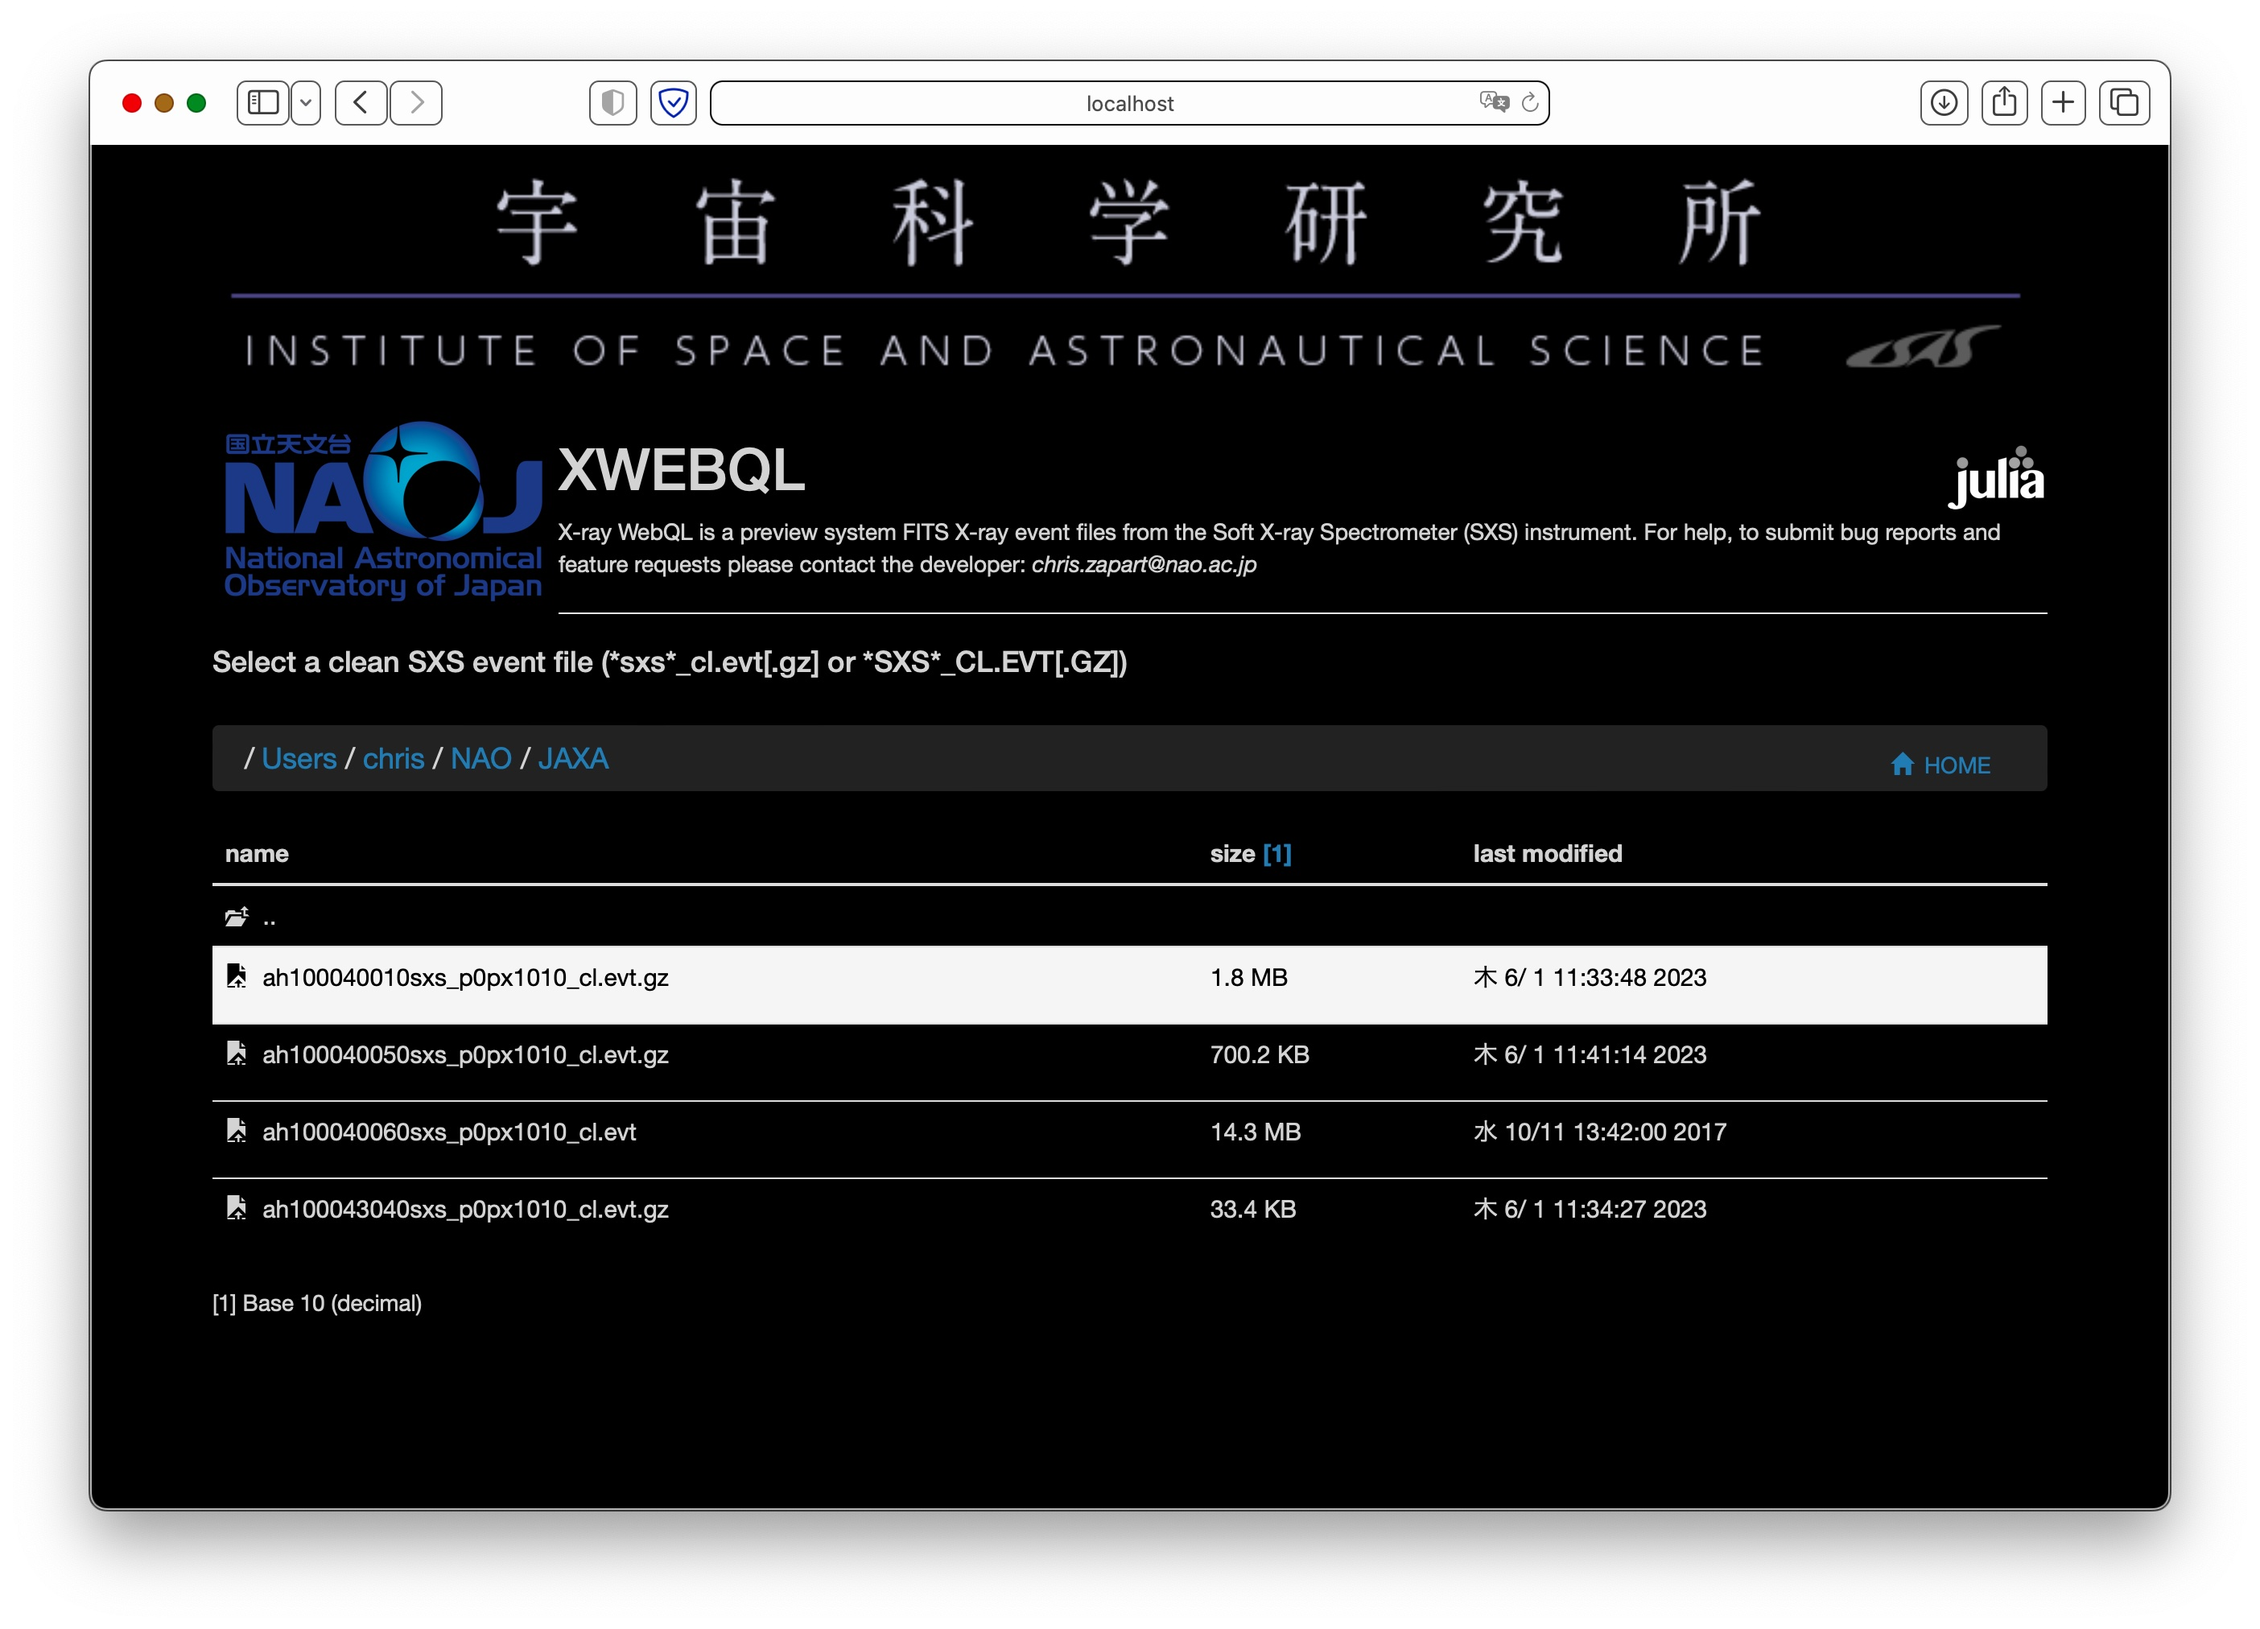
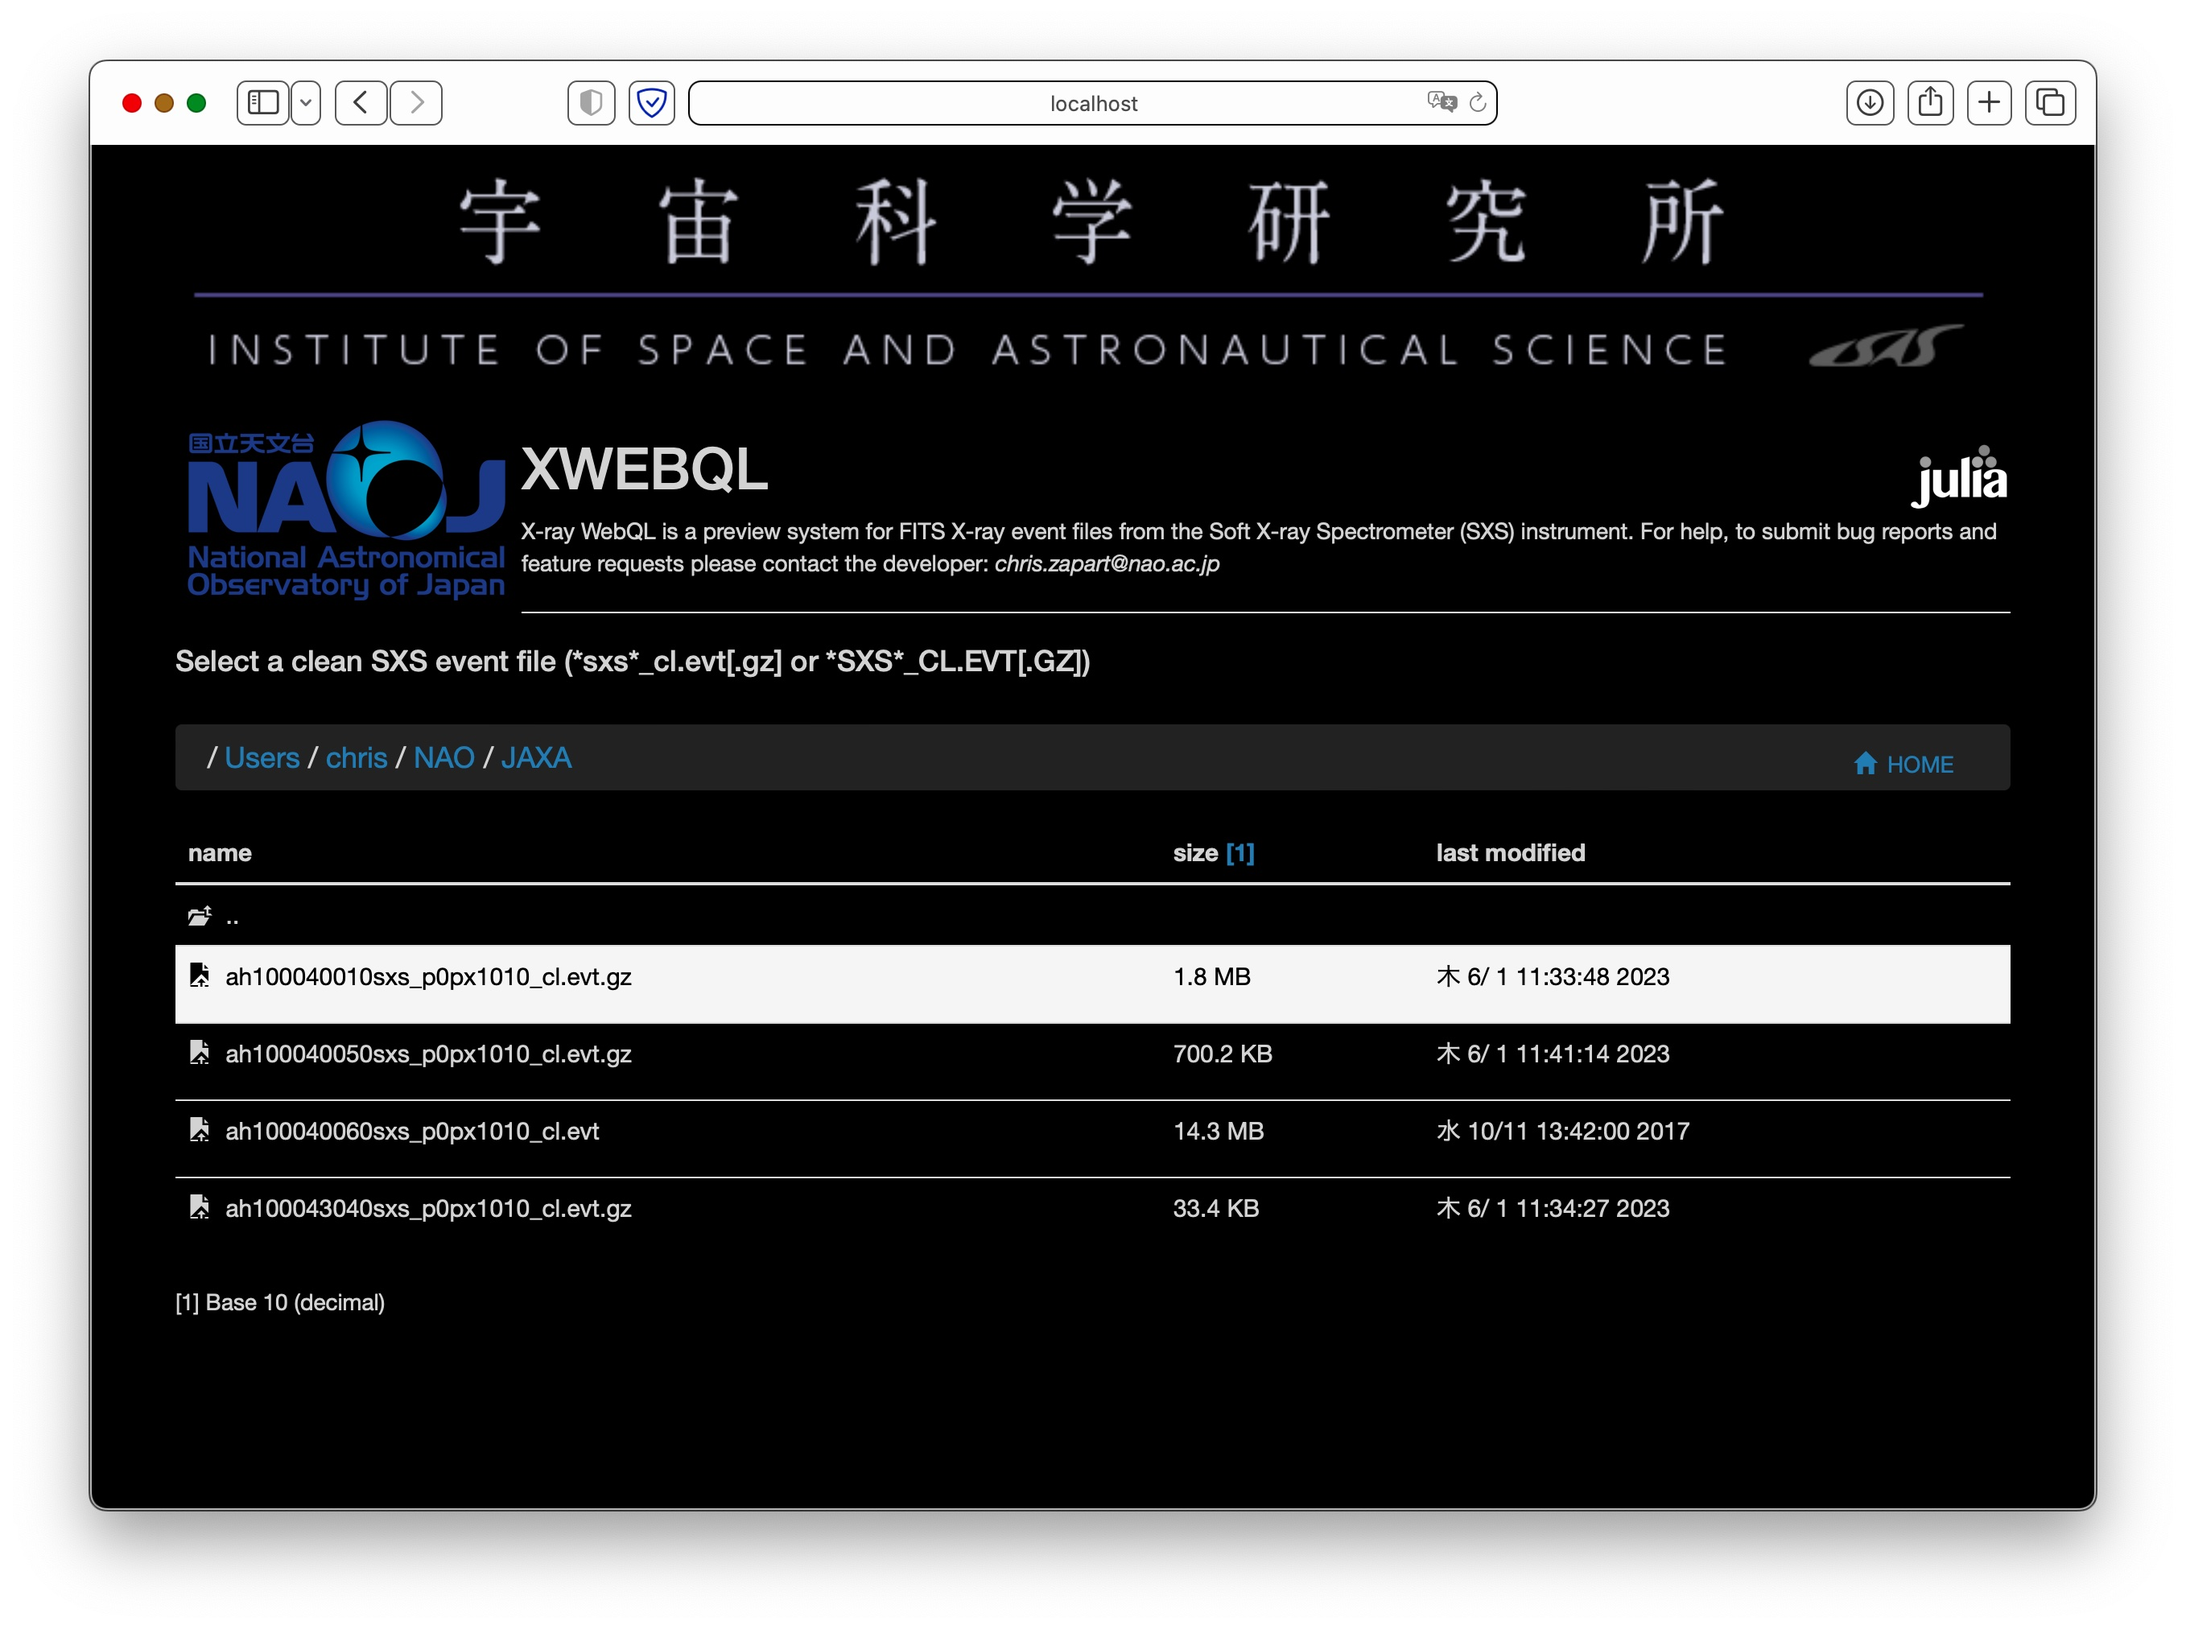
modified:   htdocs/index.html

diff --git a/htdocs/index.html b/htdocs/index.html
@@ -40,7 +40,8 @@
             <img id="logo" src="julia-logo-color.png" class="img-responsive img-rounded" alt="Powered by Julia"
                 style="height:40px; margin-top:25px;" align="right">
             <h1>XWEBQL</h1>
-            <p>X-ray WebQL is a preview system FITS X-ray event files from the Soft X-ray Spectrometer (SXS) instrument.
+            <p>X-ray WebQL is a preview system for FITS X-ray event files from the Soft X-ray Spectrometer (SXS)
+                instrument.
                 For help, to submit bug reports and feature requests please contact the developer: <a class="email"
                     href="mailto:chris.zapart@nao.ac.jp">chris.zapart@nao.ac.jp</a></p>
         </span>
